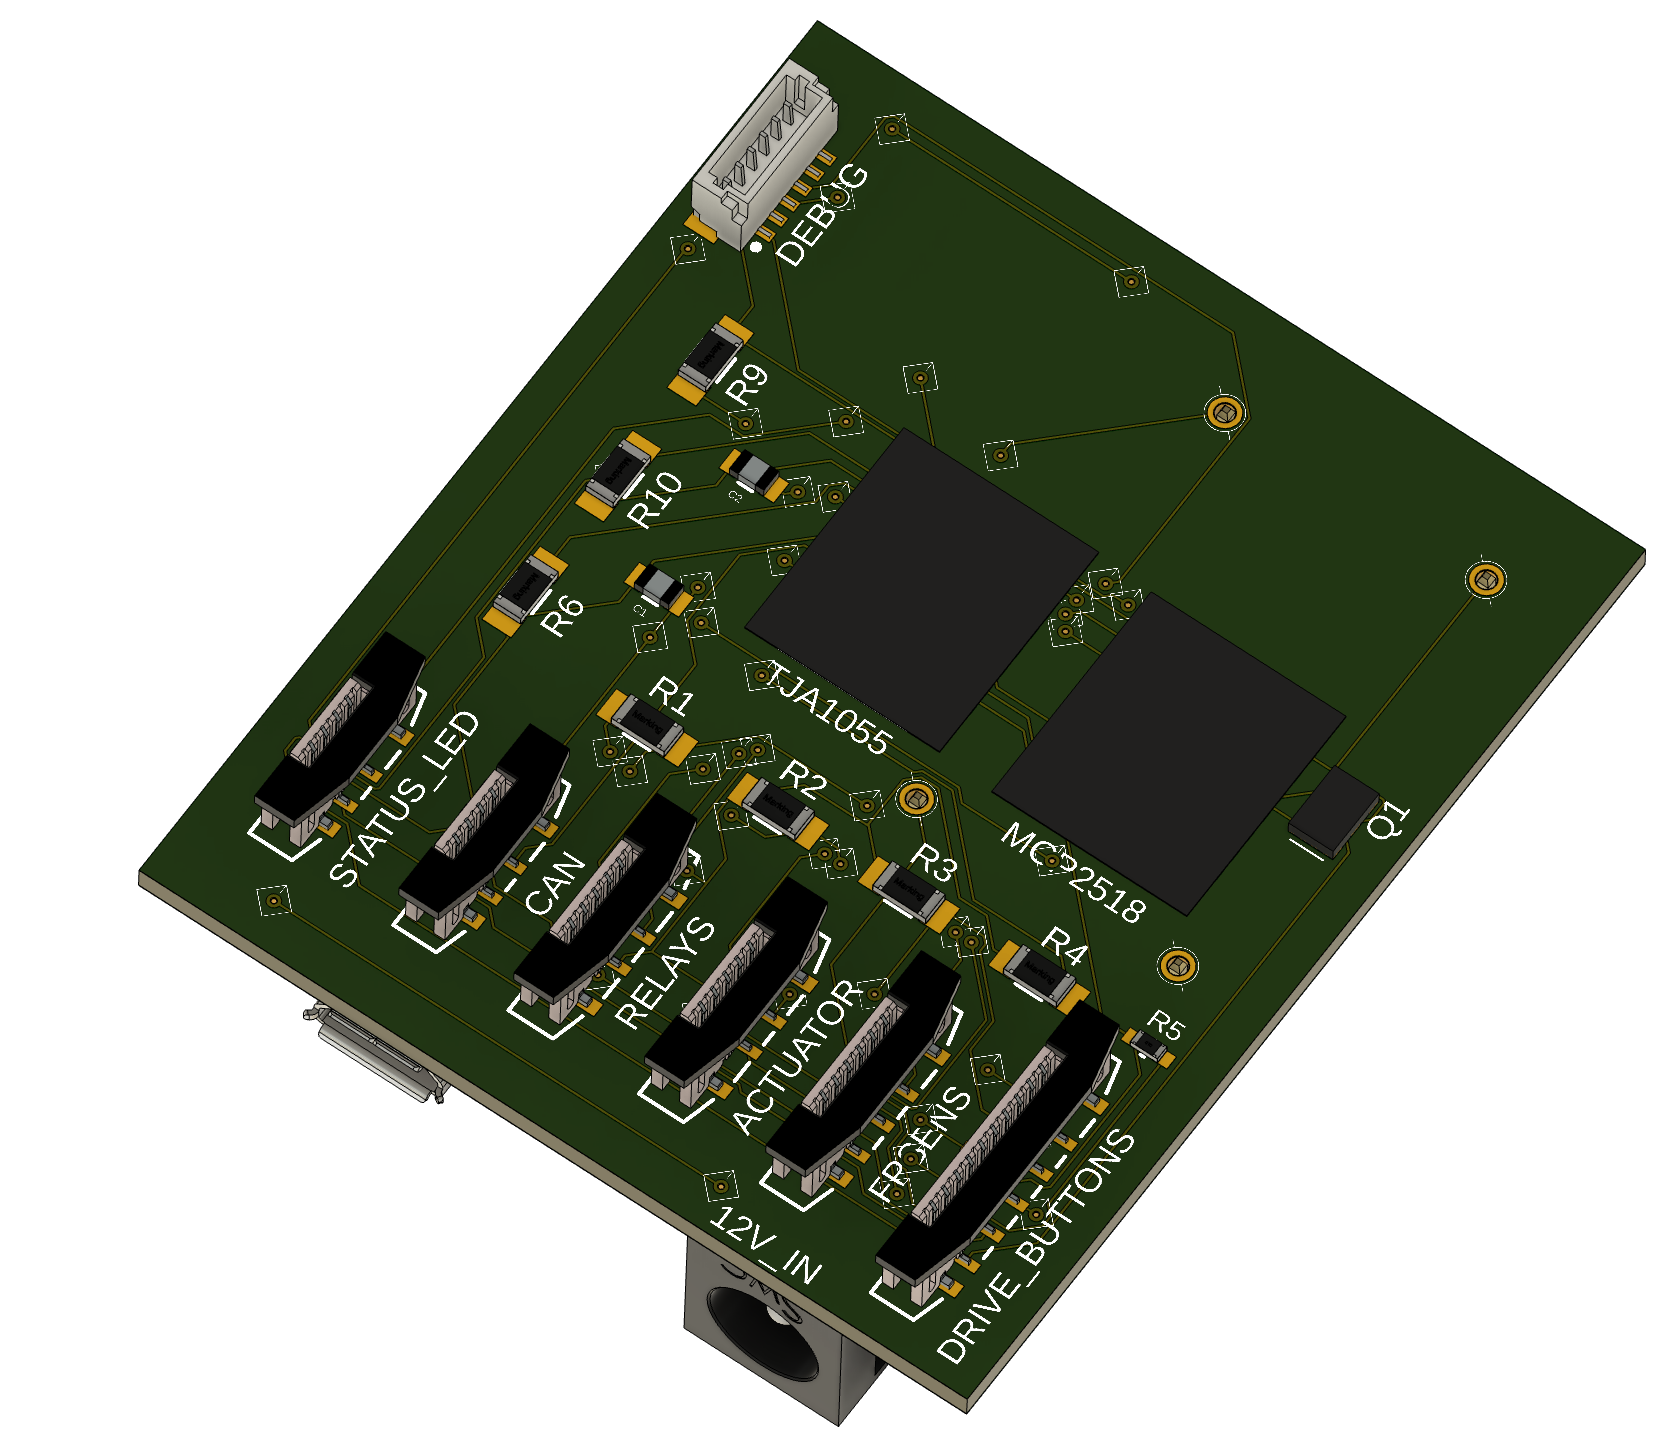
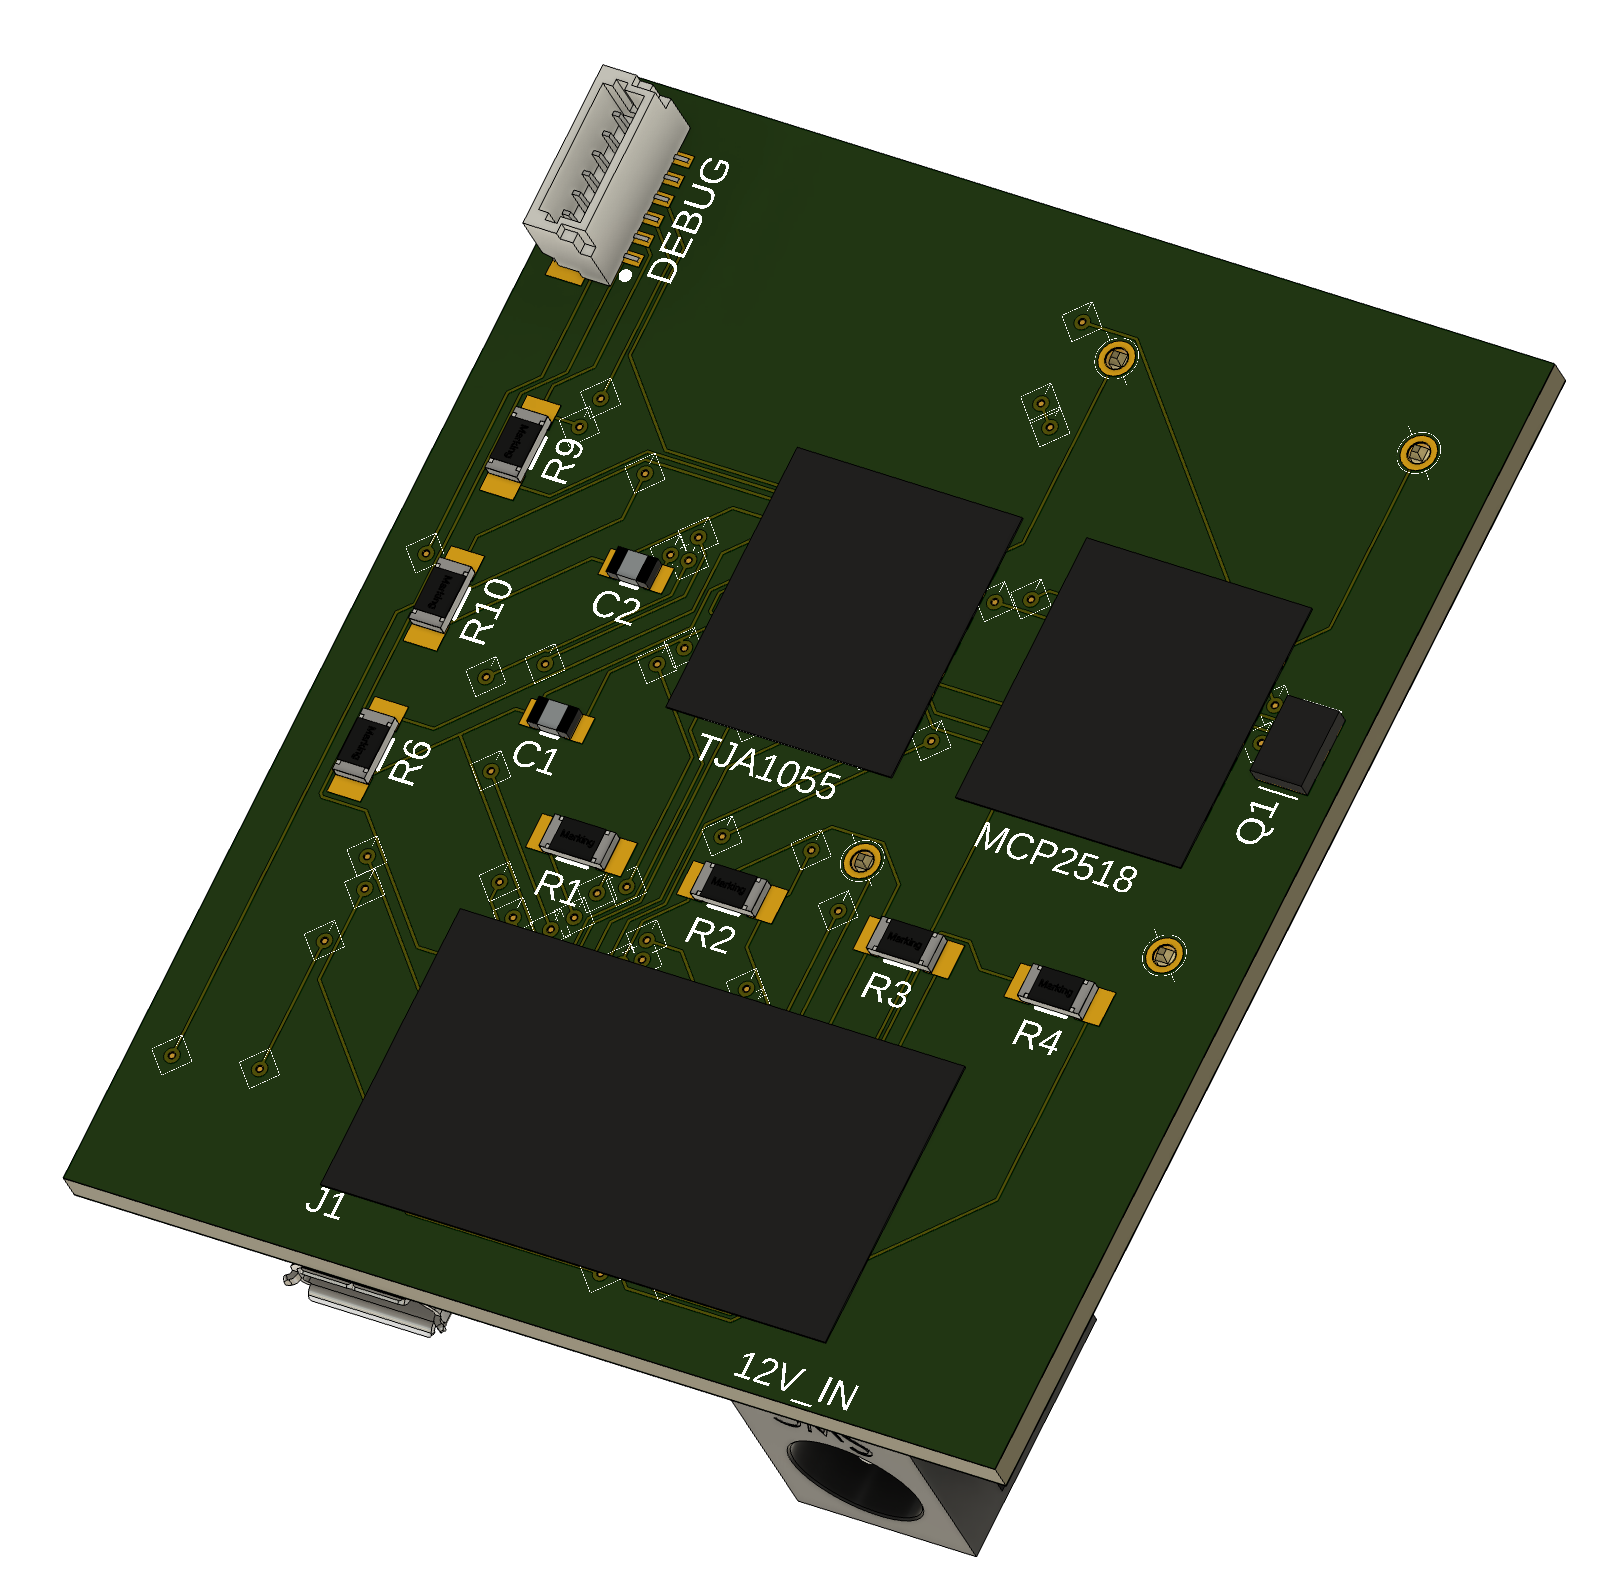
Change the multiple PCB connectors to one big 24pin instead.
Don't have space for multiple connectors to each piece on the
box/panel/chassis, so will have to go with ONE big one instead.

diff --git a/README.md b/README.md
@@ -188,8 +188,8 @@ Or those two combined, [buttons and their LEDs and the status LED](https://www.e
 
 ### EIS Relays
 
+* ~~1x Control #2 (steering lock)~~
 * 1x Control #1 (ignition switch)
-* 1x Control #2 (steering lock)
 * 1x Control #3 (start signal)
 * 1x 5V
 * 1x GND
@@ -199,19 +199,22 @@ Or those two combined, [buttons and their LEDs and the status LED](https://www.e
 
 * 1x Actuator (Potentiometer Brush)
 * 1x Actuator (Motor Relay +)
+* 1x Actuator (Motor Relay -)
 * 1x 5V
 * 1x GND
-=> [4 pin](https://www.ebay.co.uk/itm/174775342997)
+=> [5 pin](https://www.ebay.co.uk/itm/174775342997)
 
 ### CAN bus #0 and #1
 
-* 2x CAN-L
-* 2x CAN-H
+* ~~2x~~ 1x CAN-L
+* ~~2x~~ 1x CAN-H
 => [4 pin](https://www.ebay.co.uk/itm/174775342997)
+=> [2 pin](https://www.ebay.co.uk/itm/174775342997)
 
 ### Total
 
-31 pins out from system.
+31 leads out from system - 24, counting only unique pins (SteeringLock "relay" and CAN#2 not counted, because
+those shouldn't be anyway).
 
 # Parts
 
@@ -223,10 +226,6 @@ Crossed out parts are things I either didn't buy or don't need. Yet. Which is wh
 | :--- | :---  |
 | [Actuator w/ feedback (potentiometer)](https://www.progressiveautomations.com/products/linear-actuator-with-potentiometer?variant=18277322424387) | £115 ($145) |
 | [Aston Martin drive select buttons](https://www.ebay.co.uk/sch/i.html?_dkr=1&iconV2Request=true&_blrs=recall_filtering&_ssn=hillsmotors&store_name=hillsmotors&_oac=1&_nkw=gear%20select%20switch) | £35	(*4 = £140) |
-| ~~[GX20 Aviation Plug  4-pin Male+Female Panel Mount](https://www.ebay.co.uk/itm/174775342997?var=473951323019)~~ | ~~£4~~ |
-| ~~[GX20 Aviation Plug  5-pin Male+Female Panel Mount](https://www.ebay.co.uk/itm/174775342997?var=473951323020)~~ | ~~£4~~ |
-| ~~[GX20 Aviation Plug  6-pin Male+Female Panel Mount](https://www.ebay.co.uk/itm/174775342997?var=473951323021)~~ | ~~£4~~ |
-| ~~[GX20 Aviation Plug 12-pin Male+Female Panel Mount](https://www.ebay.co.uk/itm/174775342997?var=473951323026)~~ | ~~£5~~ |
 
 ## Controller
 
@@ -236,7 +235,6 @@ Crossed out parts are things I either didn't buy or don't need. Yet. Which is wh
 | [DC-DC Buck Converter 7-24V to 5V 4A](https://thepihut.com/products/dc-dc-buck-converter-7-24v-to-5v-4a?variant=39865627607235) | £5 |
 | [Fingerprint scanner (panel mount)](https://thepihut.com/products/panel-mount-fingerprint-sensor-with-bi-colour-led-ring-r503?variant=41727311675587) | £23 |
 | [MOSFET Power Controller](https://thepihut.com/products/gravity-mosfet-power-controller) | £4 * 3 |
-| ~~[1Channel CAN bus extension board](https://thepihut.com/products/can-board-sn65hvd230?variant=40242101256387)~~ | ~~£6 * 2~~ |
 | [NeoPixel Diffused 5mm LED](https://thepihut.com/products/neopixel-diffused-5mm-through-hole-led-5-pack?variant=27739696529) | £5 |
 | [LED holder 5mm](https://thepihut.com/products/5mm-plastic-flat-led-holder-pack-of-5?variant=27739774353) | £1 |
 
@@ -246,19 +244,15 @@ Crossed out parts are things I either didn't buy or don't need. Yet. Which is wh
 | :--- | :---  |
 | [TJA1055T/1J Fault-tolerant CAN chip](https://www.mouser.co.uk/ProductDetail/771-TJA1055T-1J) | £2
 | [MCP2513FDTE/SL CAN Interface IC](https://www.mouser.co.uk/ProductDetail/579-MCP2518FDT-E-SL) | £2
-| [WR-FPC connector -  4pin](https://www.mouser.co.uk/ProductDetail/710-686104183822) | £1 * 2
-| [WR-FPC jumper cable -  4pin/10cm](https://www.mouser.co.uk/ProductDetail/710-686704100001) | £3 * 2
-| [WR-FPC connector -  5pin](https://www.mouser.co.uk/ProductDetail/710-686105183822) | £1 * 2
-| [WR-FPC jumper cable -  5pin/10cm](https://www.mouser.co.uk/ProductDetail/710-686705100001) | £3 * 2
-| [WR-FPC connector -  6pin](https://www.mouser.co.uk/ProductDetail/710-686106183822) | £1
-| [WR-FPC jumper cable -  6pin/10cm](https://www.mouser.co.uk/ProductDetail/710-686706100001) | £3
-| [WR-FPC connector - 10pin](https://www.mouser.co.uk/ProductDetail/710-686110183822) | £2
-| [WR-FPC jumper cable - 10pin/10cm](https://www.mouser.co.uk/ProductDetail/710-686710100001) | £3
 | [DC Power Connector](https://www.mouser.co.uk/ProductDetail/502-RASM722X) | £1
 | [Resistor -  1kΩ](https://www.mouser.co.uk/ProductDetail/710-560112132038) | £0.10 * 7
 | [Resistor - 10kΩ](https://www.mouser.co.uk/ProductDetail/710-560112116005) | £0.09
 | [Capacitor - 150pF](https://www.mouser.co.uk/ProductDetail/710-885012007017) | £0.08 * 2
 | [Resonator - 16MHz/15pF](https://www.mouser.co.uk/ProductDetail/81-CSTNE16M0VH3L000R) | £0.30
+| [Motherboard connector - 24pin](https://www.mouser.co.uk/ProductDetail/538-213227-2410) | £3
+| [Wire to Motherboard connector - 24pin](https://www.mouser.co.uk/ProductDetail/538-503148-2490) | £3
+| [Panel mount connector - 24 pin](https://www.mouser.co.uk/ProductDetail/798-DF51-24DEP-2C) | £1
+| [Wire to panel mount connector - 24pin](https://www.mouser.co.uk/ProductDetail/798-DF51-24DS-2C) | £0.3
 
 ## For development
 
@@ -270,7 +264,6 @@ Crossed out parts are things I either didn't buy or don't need. Yet. Which is wh
 | [Half-Size Breadboard](https://thepihut.com/products/breadboard-400-point-clear?variant=31986026381374) | £3 * 3 |
 | [Breadboard for Pico](https://thepihut.com/products/breadboard-for-pico?variant=39819276386499) | £4 |
 | [Short Plug Headers](https://thepihut.com/products/short-plug-headers-for-raspberry-pi-pico-2-x-20-pin-male?variant=42182974505155) | £1 |
-| ~~[10K potentiometer](https://thepihut.com/products/panel-mount-10k-potentiometer-breadboard-friendly?variant=27740444817)~~ | ~~£1~~ |
 | [Tactile Switch Buttons](https://thepihut.com/products/tactile-switch-buttons-6mm-tall-x-10-pack?variant=27739414097) | £3 |
 | [Breakout for 6-pin JST SH-Style Connector - Side Entry](https://thepihut.com/products/breakout-for-6-pin-jst-sh-style-connector-side-entry?variant=42438253871299) | £1 |
 | [Extra-long break-away 0.1" 16-pin strip male header (5 pieces)](https://thepihut.com/products/extra-long-break-away-0-1-16-pin-strip-male-header-5-pieces?variant=27740420881) | £3 |
@@ -279,9 +272,9 @@ Crossed out parts are things I either didn't buy or don't need. Yet. Which is wh
 | [Breadboard-friendly 2.1mm DC barrel jack](https://thepihut.com/products/breadboard-friendly-2-1mm-dc-barrel-jack?variant=27740417489) | £1 |
 | [In-line power switch for 2.1mm barrel jack](https://thepihut.com/products/in-line-power-switch-for-2-1mm-barrel-jack?variant=27739226065) | £2 |
 | [DB9 Right Angle MALE Connector - PCB Mount D-SUB](https://www.ebay.co.uk/itm/325261653847) | £3 |
-| ~~[Dupont Jump Wire F-F Jumper Breadboard Cable Lead -  6pin](https://www.ebay.co.uk/itm/275827705804?var=577580216871)~~ | £2 |
-| ~~[Dupont Jump Wire F-F Jumper Breadboard Cable Lead - 10pin](https://www.ebay.co.uk/itm/275827705804?var=577580216855)~~ | £2 |
-| ~~[Dupont Jump Wire M-M Jumper Breadboard Cable Lead - 10cm](https://www.ebay.co.uk/itm/275268807202?var=575537821821)~~ | £8 |
+| [Dupont Jump Wire F-F Jumper Breadboard Cable Lead -  6pin](https://www.ebay.co.uk/itm/275827705804?var=577580216871) | £2 |
+| [Dupont Jump Wire F-F Jumper Breadboard Cable Lead - 10pin](https://www.ebay.co.uk/itm/275827705804?var=577580216855) | £2 |
+| [Dupont Jump Wire M-M Jumper Breadboard Cable Lead - 10cm](https://www.ebay.co.uk/itm/275268807202?var=575537821821) | £8 |
 | [SO14 IC to Breadboard adapter](https://www.mouser.co.uk/ProductDetail/535-LCQT-SOIC14) | £4 * 2
 
 ## Other
